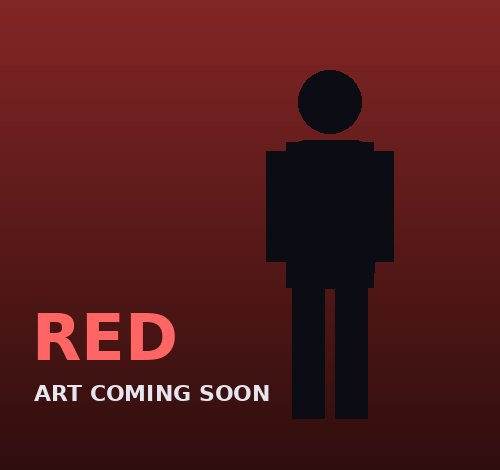
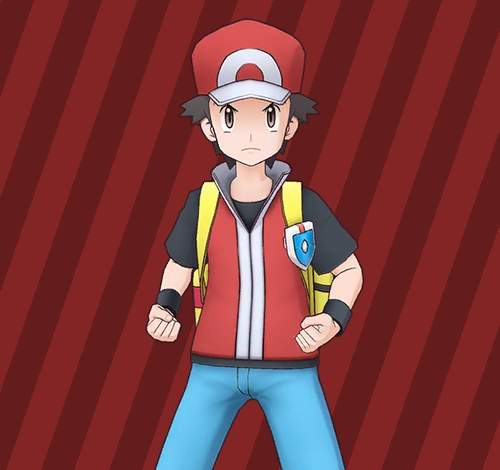
Battle game: art for Lorelei, Agatha and Red
Their Pokemon Masters EX renders (from Bulbagarden Archives, as the other
leaders' art is) framed like the others': a VS splash on stripes in their
colour, a head-and-shoulders face, and the full body. Replaces the
placeholders.

Claude-Session: https://claude.ai/code/session_01F83evgtbjqv7A6X6ifYJLx

diff --git a/public/rpg/game.js b/public/rpg/game.js
@@ -3682,8 +3682,7 @@ const ELITE_CARD = { short: 'THE ELITE FOUR', city: 'INDIGO PLATEAU', summonName
  * (Lorelei, Bruno, Agatha and Lance, the last two back with new teams) and
  * then Red, at Mt. Silver, on one ticket, as the Johto League's ladder is.
  * Lose and the next ticket starts again from Lorelei; beat Red and it's done.
- * Their own battle theme (SONGS.kantoElite) and Red's (SONGS.red); Lorelei,
- * Agatha and Red stand in placeholder art until theirs arrives.
+ * Their own battle theme (SONGS.kantoElite) and Red's (SONGS.red).
  */
 const KANTO_ELITE = [
   { short: 'LORELEI', full: 'ELITE FOUR LORELEI', type: 'ice', color: '#7dd3fc', scene: 'castle', min: 78, tokens: '10.00',
@@ -3723,7 +3722,7 @@ const LEAGUES = {
   elite: { members: ELITE, card: ELITE_CARD, sub: 'the Elite Four and Champion Lance, one at a time', battle: (L) => (L.short === 'LANCE' ? 'champion' : 'elite') },
   kanto: { members: KANTO_ELITE, card: KANTO_CARD, sub: 'the Kanto Elite Four, then Red, one at a time', battle: (L) => (L.red ? 'red' : 'kantoElite') },
 }
-// Placeholder art for the new faces, until theirs arrives.
+// The new faces' art: their Pokémon Masters EX renders (from Bulbagarden Archives), framed as the others'.
 for (const k of ['lorelei', 'agatha', 'red']) Object.assign(ART, { [`gymVs:${k}`]: `/rpg/a/gym-${k}-vs.jpg`, [`gymFace:${k}`]: `/rpg/a/gym-${k}-face.jpg`, [`gymBody:${k}`]: `/rpg/a/gym-${k}-body.png` })
 
 /** A leader's art keys (build.mjs embeds `gymBody:<key>` and friends). */

diff --git a/public/rpg/index.html b/public/rpg/index.html
@@ -1087,6 +1087,6 @@ body.app .wrap { width: min(100%, 440px); padding: calc(52px + env(safe-area-ins
   </div>
 </div>
 
-<script src="/rpg/game.js?v=e11b6c1afb"></script>
+<script src="/rpg/game.js?v=1ea21fdfdf"></script>
 </body>
 </html>
